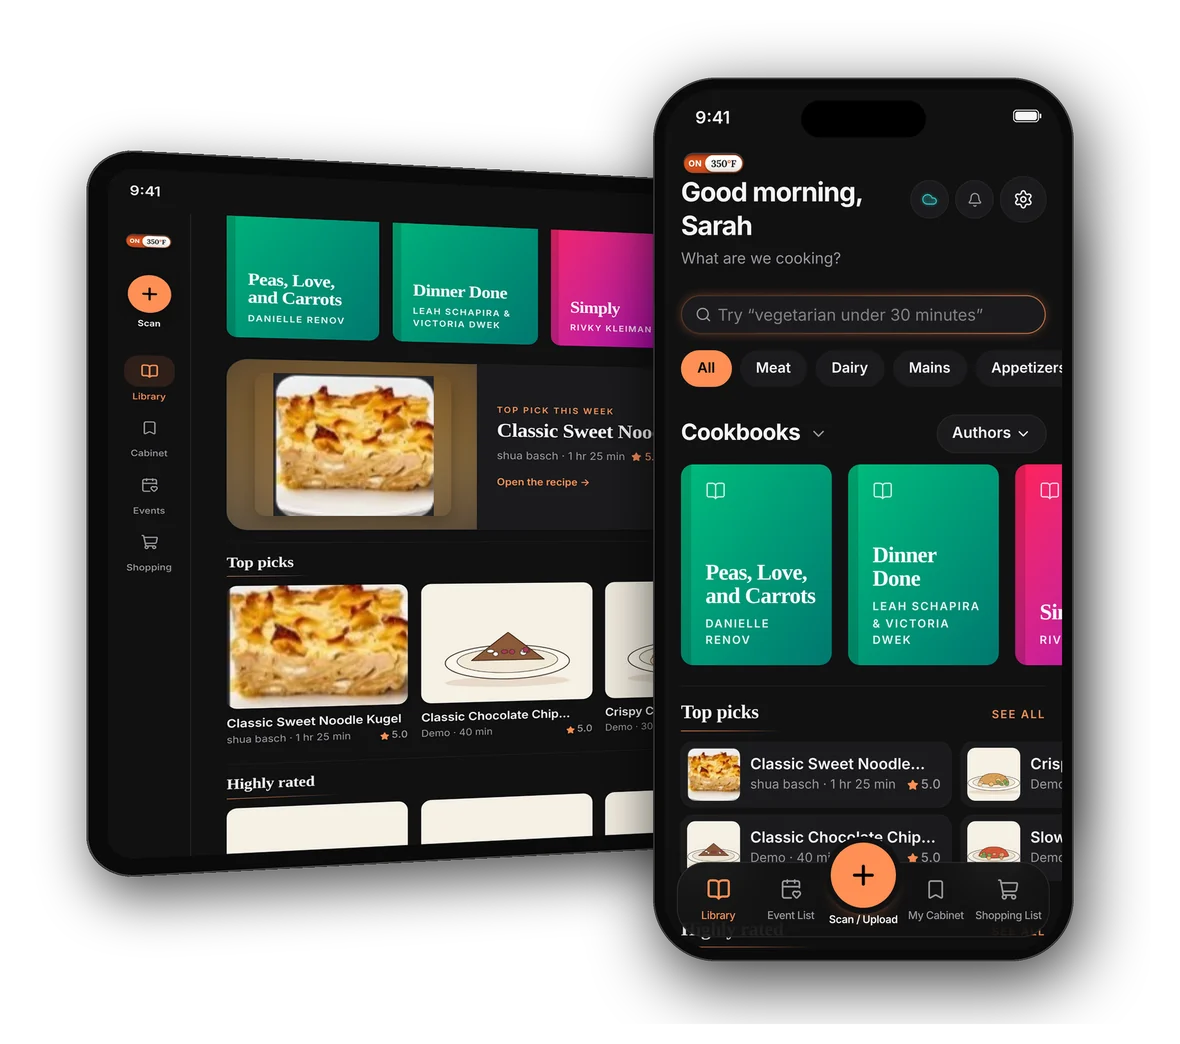
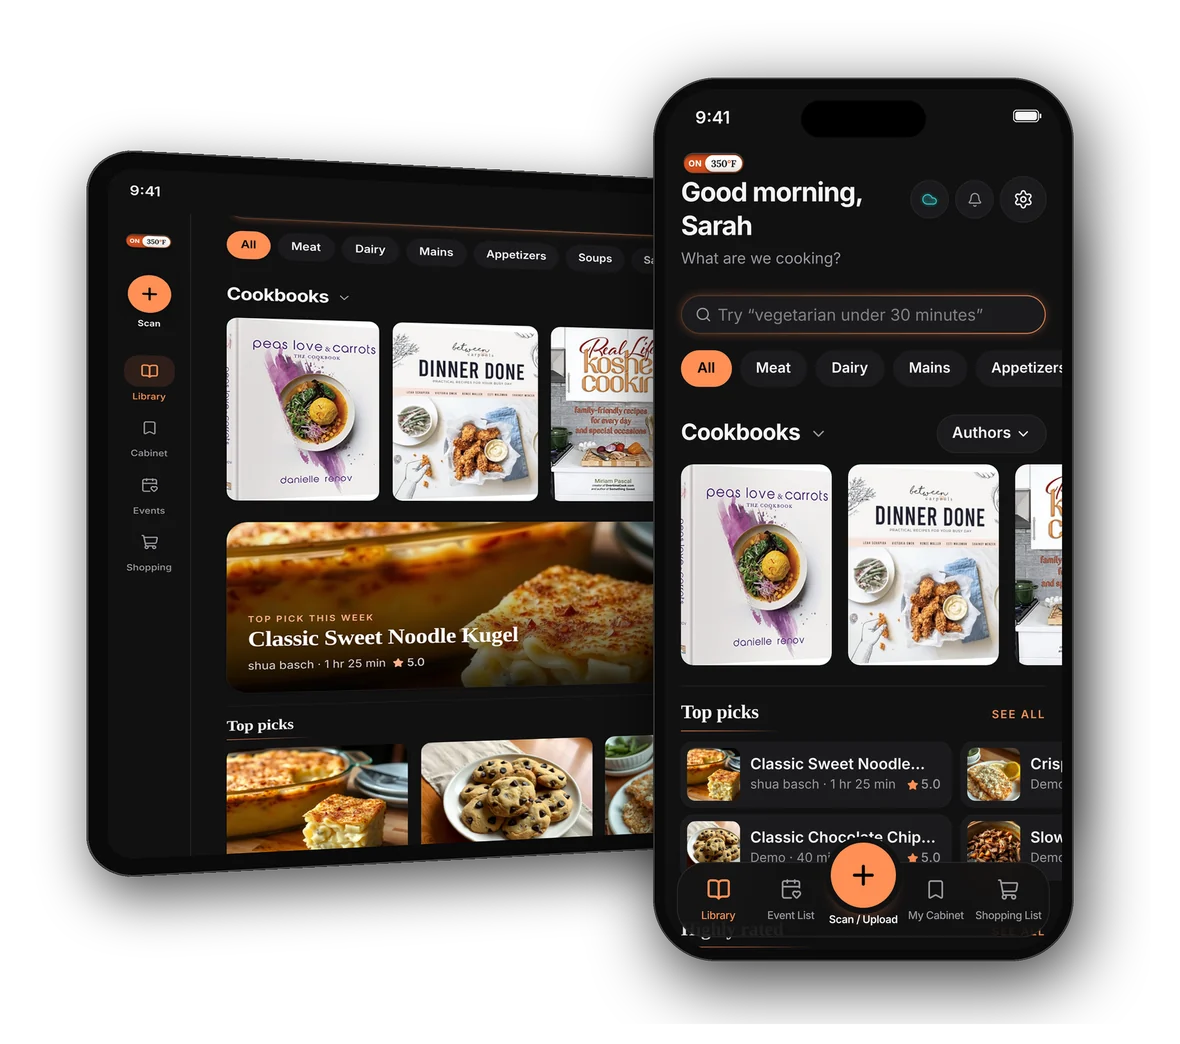
App pictures with the real cookbook covers (#169)
Claude-Session: https://claude.ai/code/session_01ADXpCTEnMXBBp4mHBc7Y2V

Changed region(s): [[0.1831, 0.1839, 0.9153, 0.8276], [0.7932, 0.705, 0.8847, 0.8276]]

diff --git a/on350-app/dist/sw.js b/on350-app/dist/sw.js
@@ -1,1 +1,1 @@
-if(!self.define){let s,e={};const n=(n,i)=>(n=new URL(n+".js",i).href,e[n]||new Promise(e=>{if("document"in self){const s=document.createElement("script");s.src=n,s.onload=e,document.head.appendChild(s)}else s=n,importScripts(n),e()}).then(()=>{let s=e[n];if(!s)throw new Error(`Module ${n} didn’t register its module`);return s}));self.define=(i,l)=>{const r=s||("document"in self?document.currentScript.src:"")||location.href;if(e[r])return;let o={};const u=s=>n(s,r),d={module:{uri:r},exports:o,require:u};e[r]=Promise.all(i.map(s=>d[s]||u(s))).then(s=>(l(...s),o))}}define(["./workbox-9c191d2f"],function(s){"use strict";self.skipWaiting(),s.clientsClaim(),s.precacheAndRoute([{url:"registerSW.js",revision:"1872c500de691dce40960bb85481de07"},{url:"index.html",revision:"f2475ab6591f12b55f15f9332350e4cd"},{url:"icons/icon-maskable-512.png",revision:"26d75d5eb4c10d02fcc817773d1bcbe4"},{url:"icons/icon-512.png",revision:"a9a29668524cfb1b1335d4346d78513d"},{url:"icons/icon-192.png",revision:"f194002a84529ad3b7bd275267dcead4"},{url:"icons/favicon-64.png",revision:"b653eda74384dbf740c64af46835d65e"},{url:"icons/apple-touch-icon.png",revision:"354b032add9423b36210f9db1743ee38"},{url:"email/on350-hero.png",revision:"24bd7eaab57eeb24ef797b4ba1cbeec2"},{url:"brand/logo-toggle.png",revision:"b54b35fb0cb5df499a7ad045b4c98b92"},{url:"assets/web-tegqDc42.js",revision:null},{url:"assets/web-lLw5ALla.js",revision:null},{url:"assets/web-DeBQDCOJ.js",revision:null},{url:"assets/web-D3yObx7c.js",revision:null},{url:"assets/web-Cmb_0kRm.js",revision:null},{url:"assets/web-BcuQfhOZ.js",revision:null},{url:"assets/web-BYkrKCPf.js",revision:null},{url:"assets/web-BLgRapDh.js",revision:null},{url:"assets/index-Dsya6Lkp.css",revision:null},{url:"assets/index-CYeOCCKO.js",revision:null},{url:"assets/esm-DXEG-gy2.js",revision:null},{url:"assets/esm-DVIIdS_k.js",revision:null},{url:"assets/esm-CxAUHn0o.js",revision:null},{url:"assets/esm-CtKGbW35.js",revision:null},{url:"assets/esm-CIKLyD72.js",revision:null},{url:"assets/esm-CGYuBoGK.js",revision:null},{url:"assets/esm-BeHeTaAT.js",revision:null},{url:"assets/esm-BXCAJcMc.js",revision:null},{url:"assets/esm-BMGOgygJ.js",revision:null},{url:"assets/AdminPage-DKNTbHZW.js",revision:null},{url:"icons/apple-touch-icon.png",revision:"354b032add9423b36210f9db1743ee38"},{url:"icons/favicon-64.png",revision:"b653eda74384dbf740c64af46835d65e"},{url:"icons/icon-192.png",revision:"f194002a84529ad3b7bd275267dcead4"},{url:"icons/icon-512.png",revision:"a9a29668524cfb1b1335d4346d78513d"},{url:"icons/icon-maskable-512.png",revision:"26d75d5eb4c10d02fcc817773d1bcbe4"},{url:"brand/logo-toggle.png",revision:"b54b35fb0cb5df499a7ad045b4c98b92"},{url:"manifest.webmanifest",revision:"68cfcd0b270bcda3fe100d9cd17feefd"}],{}),s.cleanupOutdatedCaches(),s.registerRoute(new s.NavigationRoute(s.createHandlerBoundToURL("/index.html"),{denylist:[/^\/downloads\//,/^\/\.well-known\//]}))});
+if(!self.define){let s,e={};const n=(n,i)=>(n=new URL(n+".js",i).href,e[n]||new Promise(e=>{if("document"in self){const s=document.createElement("script");s.src=n,s.onload=e,document.head.appendChild(s)}else s=n,importScripts(n),e()}).then(()=>{let s=e[n];if(!s)throw new Error(`Module ${n} didn’t register its module`);return s}));self.define=(i,l)=>{const r=s||("document"in self?document.currentScript.src:"")||location.href;if(e[r])return;let o={};const u=s=>n(s,r),d={module:{uri:r},exports:o,require:u};e[r]=Promise.all(i.map(s=>d[s]||u(s))).then(s=>(l(...s),o))}}define(["./workbox-9c191d2f"],function(s){"use strict";self.skipWaiting(),s.clientsClaim(),s.precacheAndRoute([{url:"registerSW.js",revision:"1872c500de691dce40960bb85481de07"},{url:"index.html",revision:"f2475ab6591f12b55f15f9332350e4cd"},{url:"icons/icon-maskable-512.png",revision:"26d75d5eb4c10d02fcc817773d1bcbe4"},{url:"icons/icon-512.png",revision:"a9a29668524cfb1b1335d4346d78513d"},{url:"icons/icon-192.png",revision:"f194002a84529ad3b7bd275267dcead4"},{url:"icons/favicon-64.png",revision:"b653eda74384dbf740c64af46835d65e"},{url:"icons/apple-touch-icon.png",revision:"354b032add9423b36210f9db1743ee38"},{url:"email/on350-hero.png",revision:"24bd7eaab57eeb24ef797b4ba1cbeec2"},{url:"brand/logo-toggle.png",revision:"b54b35fb0cb5df499a7ad045b4c98b92"},{url:"assets/web-tegqDc42.js",revision:null},{url:"assets/web-lLw5ALla.js",revision:null},{url:"assets/web-DeBQDCOJ.js",revision:null},{url:"assets/web-D3yObx7c.js",revision:null},{url:"assets/web-Cmb_0kRm.js",revision:null},{url:"assets/web-BcuQfhOZ.js",revision:null},{url:"assets/web-BYkrKCPf.js",revision:null},{url:"assets/web-BLgRapDh.js",revision:null},{url:"assets/index-Dsya6Lkp.css",revision:null},{url:"assets/index-CYeOCCKO.js",revision:null},{url:"assets/esm-DXEG-gy2.js",revision:null},{url:"assets/esm-DVIIdS_k.js",revision:null},{url:"assets/esm-CxAUHn0o.js",revision:null},{url:"assets/esm-CtKGbW35.js",revision:null},{url:"assets/esm-CIKLyD72.js",revision:null},{url:"assets/esm-CGYuBoGK.js",revision:null},{url:"assets/esm-BeHeTaAT.js",revision:null},{url:"assets/esm-BXCAJcMc.js",revision:null},{url:"assets/esm-BMGOgygJ.js",revision:null},{url:"assets/AdminPage-DKNTbHZW.js",revision:null},{url:"brand/logo-toggle.png",revision:"b54b35fb0cb5df499a7ad045b4c98b92"},{url:"icons/apple-touch-icon.png",revision:"354b032add9423b36210f9db1743ee38"},{url:"icons/favicon-64.png",revision:"b653eda74384dbf740c64af46835d65e"},{url:"icons/icon-192.png",revision:"f194002a84529ad3b7bd275267dcead4"},{url:"icons/icon-512.png",revision:"a9a29668524cfb1b1335d4346d78513d"},{url:"icons/icon-maskable-512.png",revision:"26d75d5eb4c10d02fcc817773d1bcbe4"},{url:"manifest.webmanifest",revision:"68cfcd0b270bcda3fe100d9cd17feefd"}],{}),s.cleanupOutdatedCaches(),s.registerRoute(new s.NavigationRoute(s.createHandlerBoundToURL("/index.html"),{denylist:[/^\/downloads\//,/^\/\.well-known\//]}))});
